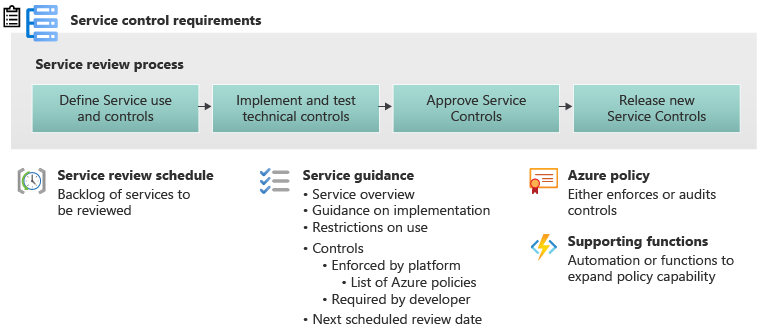
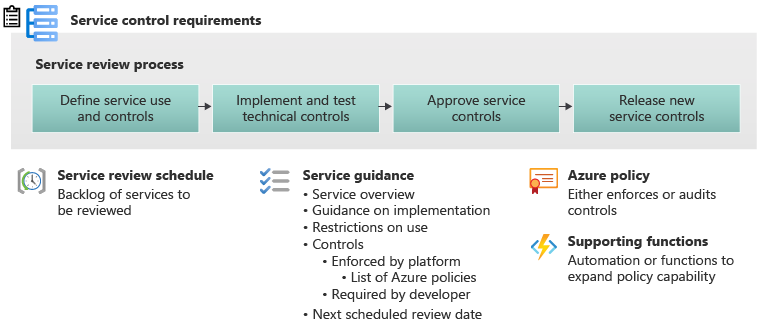
editiorial review and new images

diff --git a/docs/govern/cloud-service-controls.md b/docs/govern/cloud-service-controls.md
@@ -26,9 +26,9 @@ Implementing organizational cloud policy stretches across many layers of the imp
 
 | Control Level | Suitability                                  | Considerations                                                                                                                                                               | Examples                            |
 | ------------- | -------------------------------------------- | ---------------------------------------------------------------------------------------------------------------------------------------------------------------------------- | ----------------------------------- |
-| Platform      | Broad coverage             | Hard to implement service-specific management or remediation. Ensure that the desired outcome is not negated by the application implementation.                               | Resource Tagging or Allowed regions |
-| Cloud service | Tailored for individual services             | Control must be implemented individually for each service. Ensure that the desired outcome is not negated by the application implementation.                              | Data Encryption or Monitoring       |
-| Adoption team | Tailored for each application implementation | Control must be implemented for each new application. Hard to standardize implementation. Multiple teams have to implement different controls for the desired outcome. | Application Failover Logic          |
+| Platform      | Broad coverage             | Hard to implement service-specific management or remediation. Ensure that the desired outcome is not negated by the application implementation.                               | Resource tagging or allowed regions |
+| Cloud service | Tailored for individual services             | Control must be implemented individually for each service. Ensure that the desired outcome is not negated by the application implementation.                              | Data encryption or monitoring       |
+| Adoption team | Tailored for each application implementation | Control must be implemented for each new application. Hard to standardize implementation. Multiple teams have to implement different controls for the desired outcome. | Application failover logic          |
 
 Cloud services have the strongest and most complex level of control. They provide technical implementation with fine control of each service, while allowing for single implementations to be used by multiple adoption teams. The process of implementing controls at the cloud service layer requires a level of scale to ensure that all services needed by your organization are covered.
 
@@ -39,26 +39,26 @@ This level of implementation can be delivered in several layers. The governance 
 | Service governance      | Outline                                                                    | Adoption team responsibilities                                                                                                   | Governance team responsibilities                                    |
 | ----------------------- | -------------------------------------------------------------------------- | -------------------------------------------------------------------------------------------------------------------------------- | ------------------------------------------------------------------- |
 | None                    | Services are not centrally governed.                                           | The cloud adoption teams must build corporate policy into the end solution.                                                             | Identify and implement platform-wide controls.                       |
-| Basic (allow/blocklist) | Services are allowed or blocked with no other controls.                 | The application teams build corporate policy into the end solution. Only services that have been approved by the governance team are used. | Review and approve the use of services.         |
+| Basic (allowlist and blocklist) | Services are allowed or blocked with no other controls.                 | The application teams build corporate policy into the end solution. Only services that have been approved by the governance team are used. | Review and approve the use of services.         |
 | Service review process  | Services are individually reviewed and controls are placed around each service. | The application teams should build with confidence. Only the services that have been through a service review are available.                    | Complete service governance and implement controls for each service. |
 
 While classifying the different approaches lists out the extreme ends of the spectrum, many organizations will choose an approach between these models. For example most organizations will allow some cloud services with a few controls, some will just be allowed without controls and access to others will be denied.
 
-Regardless of the approach taken to Service Governance the key input is the corporate [Cloud Policy Statements](https://docs.microsoft.com/azure/cloud-adoption-framework/govern/policy-compliance/policy-definition#create-cloud-policy-statements) defined by the Governance Team.
+Regardless of the approach taken to Service governance the key input is the corporate [Cloud policy statements](https://docs.microsoft.com/azure/cloud-adoption-framework/govern/policy-compliance/policy-definition#create-cloud-policy-statements) defined by the governance team.
 
-## Basic governance (permitted services lists)
+## Basic governance
 
-The most basic implementation of service governance is listing permitted or disallowed services in Azure.
+The most basic implementation of service governance is a permitted services list which lists the permitted or disallowed services in Azure.
 
-In this form, the governance team publishes a list of the allowed and blocked services to the adoption teams.
+In this form, the governance team publishes a list of the allowed and blocked services for the adoption teams.
 
 ### Creating and reviewing allowed services
 
-To create an allowlist/blocklist of cloud services, review each cloud service against several previously defined criteria, such as:
+To create an allowlist and blocklist of cloud services, review each cloud service against several previously defined criteria, for example:
 
-- Organization risk tolerance.
-- Corporate policy.
-- Capabilities of adoption, security, and operational teams.
+- Organization risk tolerance
+- Corporate policy
+- Capabilities of adoption, security, and operational teams
 
 ### Implementing blocklists
 
@@ -66,7 +66,7 @@ Services that are explicitly denied use in your organization should use [Azure P
 
 The number of policies used to implement the block service is a balanced decision that must take into account the process for a policy exception.
 
-There are often exceptions for the use of a service. Once the exception has been approved through the organizational process, [Azure Policy Exceptions](https://docs.microsoft.com/azure/governance/policy/concepts/exemption-structure) can be used to allow the implementation of the service in a targeted area.
+There are often exceptions for the use of a service. Once the exception has been approved through the organizational process, [Azure Policy exemptions](https://docs.microsoft.com/azure/governance/policy/concepts/exemption-structure) can be used to allow the implementation of the service in a targeted area.
 
 If a single policy is implemented with all the denied services listed, then granting an exception for a single service will grant an exception to all denied services. Upfront implementation is simpler, but releases more control with exceptions.
 
@@ -84,10 +84,10 @@ This example is a simple four-step process.
 
 Triggers for service review process can include the following:
 
-- Project need for new service.
-- Scheduled review of existing service.
-- Major cloud release of features in service.
-- Change in imperatives (which triggers all services in need of review).
+- Project need for new service
+- Scheduled review of existing service
+- Major cloud release of features in service
+- Change in imperatives (which triggers all services in need of review)
 
 The need for a service review puts the service in the backlog for the review process.
 
@@ -97,9 +97,9 @@ The next part of the process contains steps that are iterative for each of the c
 
 Selecting a service for review should be based on several components:
 
-- Internal demand for the service complexity of the implementation.
-- The review timing of the last review of the service.
-- High-level risk value of the service.
+- Internal demand for the service complexity of the implementation
+- The review timing of the last review of the service
+- High-level risk value of the service
 
 This process should publish a backlog of items and a schedule of new reviews. Outside cloud adoption teams can then understand when services are going to be selected for review and how long they might have to wait for a new service. The process allows cloud adoption teams to select services that are already under the controls of the environment.
 
@@ -119,7 +119,7 @@ The controls defined in the previous section should now be implemented in cloud 
 
 The controls of the service are interpreted into their technical implementation on the service. The controls are identified in their implementation of the Azure environment. For example, requiring encryption on a storage account requires that a certain property is set on the storage account, which then becomes the technical requirement of that control.
 
-There are many offerings in the market that provide this capability. Azure Policy is native to the Azure Cloud and is recommended. Azure policy works to report the current state versus the desired outcome, and to enforce the controls.
+There are many offerings in the market that provide this capability. Azure Policy is native to Azure and is recommended. Azure Policy works to report the current state versus the desired outcome, and to enforce the controls.
 
 ### Approve service controls
 
@@ -141,9 +141,9 @@ To start with, release new controls in an audit mode. Such a release automatical
 
 The design imperatives must have a version and release cycle and be tied back to the service guidance. The service guidance must have a version and release cycle and be tied back to the policy controls. Finally, the policy controls must have versions and be released in manageable waves.
 
-- All of these steps should happen with release cycles.
-- Services must be available on a set date.
-- Policy controls must be advertised on a release cycle.
+- All of these steps should happen with release cycles
+- Services must be available on a set date
+- Policy controls must be advertised on a release cycle
 
 ## Artifacts generated
 
@@ -151,18 +151,18 @@ The design imperatives must have a version and release cycle and be tied back to
 
 There are four key artifacts developed throughout this process.
 
-1. The **Service Control Requirements** is the outline of the key controls that are required across all services. This document is published above the reference documentation for cloud adoption teams. This positioning ensures that they've reviewed and understand the controls that are being built into the systems. This document must be available so that others can assist in the development of a service review. This process is outlined in [Scaling the review process within an organization](#scaling-the-review-process-within-an-organization).
+1. The **Service control requirements** is the outline of the key controls that are required across all services. This document is published above the reference documentation for cloud adoption teams. This positioning ensures that they've reviewed and understand the controls that are being built into the systems. This document must be available so that others can assist in the development of a service review. This process is outlined in [Scaling the review process within an organization](#scaling-the-review-process-within-an-organization).
 
-2. The **Service Review Schedule** is a document that outlines when the services are being reviewed, how long the expected wait for a review on a service might be, and allows adoption teams to know when a new service becomes available. They'll also know when existing services might change and need more implementation of controls.
+2. The **Service review schedule** is a document that outlines when the services are being reviewed, how long the expected wait for a review on a service might be, and allows adoption teams to know when a new service becomes available. They'll also know when existing services might change and need more implementation of controls.
 
 3. **Service guidance**, is a per service document that outlines the key components around a service:
 
-- When the service should be used.
-- Any restrictions on what it should be used for.
-- A list of controls that are enforced by the platform.
-- A list of controls that the developer should implement.
+   - When the service should be used
+   - Any restrictions on what it should be used for
+   - A list of controls that are enforced by the platform
+   - A list of controls that the developer should implement
 
-    Cloud adoption teams refer to these documents for services they can pick up and use, and then plan the implementation of their project around the controls and components. The service guidance should also list any Azure policies and supporting functions that have been implemented. This guidance ensures that referenceability is being enforced between the policy and service controls.
+   Cloud adoption teams refer to these documents for services they can pick up and use, and then plan the implementation of their project around the controls and components. The service guidance should also list any Azure policies and supporting functions that have been implemented. This guidance ensures that a reference can be enforced between the policy and service controls.
 
 4. **Azure policy and supporting functions**, are the components or technical implementation of the controls that go into the platform. This code is version-controlled and deployed. These code items must act in enforcing the policy and include the code for reporting compliance of the policy.
 
@@ -172,7 +172,7 @@ When starting this process, most organizations will already have an Azure footpr
 
 1. Create a service guidance for every service that's currently used in your organization with the current service controls.
 
-  For example, if KeyVaults are used and there are no controls enforced on them, create a service guidance for "KeyVault with no controls". If storage accounts are in use and a policy enforces encryption, create the storage account guidance with the control that encryption will be enforced.
+   For example, if key vaults are used and there are no controls enforced on them, create a service guidance for "Key vault with no controls". If storage accounts are in use and a policy enforces encryption, create the storage account guidance with the control that encryption will be enforced.
 
 2. Trigger a service review for all services that are currently in use, adding them all to the service review schedule.
 
@@ -198,19 +198,19 @@ There are several stages that ensure adoption teams are not blocked during the c
 
 Here, organizations can decide to allow adoption teams to start using the service in a disconnected sandbox environment. The sandbox lets the adoption team start working with the service and educate themselves by prototyping solutions. The sandbox environment doesn't have any policy controls for the service. As no review has been done, generic compensating controls should be enforced on the environment. These compensating controls might include:
 
-- Agreement from the adoption team to try to work within the cloud policy.
-- Agreement to not store any company data in the sandbox environment.
-- Limited network connectivity to the corporate environment.
-- Limited connectivity to outside services.
+- Agreement from the adoption team to try to work within the cloud policy
+- Agreement to not store any company data in the sandbox environment
+- Limited network connectivity to the corporate environment
+- Limited connectivity to outside services
 
 Once a draft version of the service review has been done, the service can be provisionally approved for use in a development and test environment. At this point, the code for the controls might not be complete, but basic guidance about how the service is deployed has been written. The developers can now start to work in the dev test environment with the understanding that the service might require reworking later. For example, if new controls were to come in place as part of the final implementation of the production controls, some rework might be needed.
 
 For the release of service controls, and to authorize application teams to deploy the service into the production environment, the following tasks must be complete:
 
-- Service guidance is completed.
-- Policy controls are code complete and tested.
-- Approval of service controls is complete.
-- Policy controls are released to production.
+- Service guidance is completed
+- Policy controls are code complete and tested
+- Approval of service controls is complete
+- Policy controls are released to production
 
 Now the adoption team can deploy the final production controls with confidence.
 
